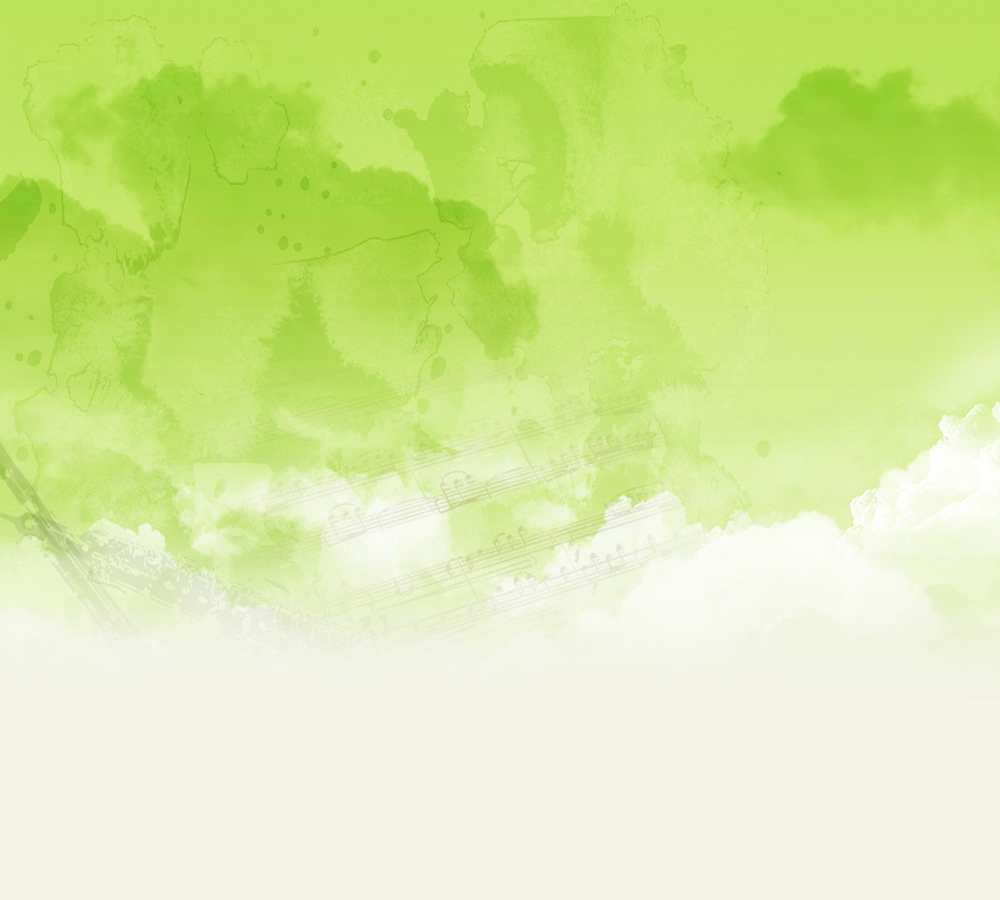
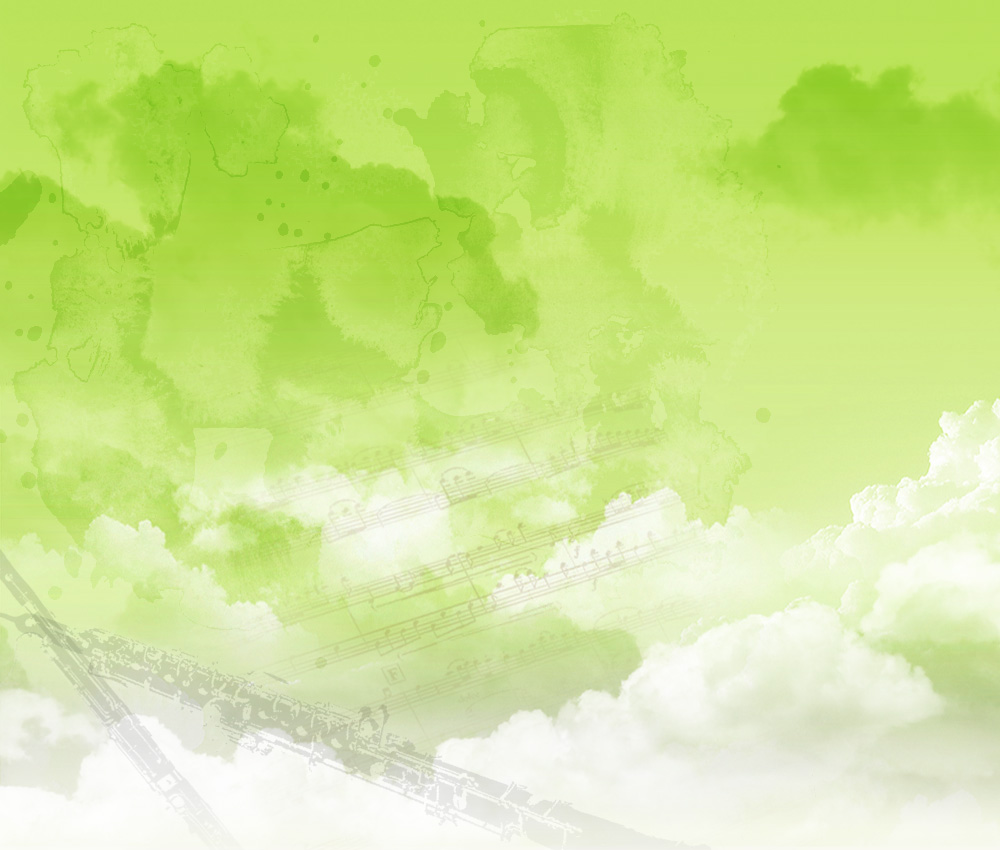
change bg_index's height
change height to 850

diff --git a/stylesheets/main.css b/stylesheets/main.css
@@ -329,7 +329,7 @@ footer {
 
 .con-index {
   width: 1000px;
-  height: 700px;
+  height: 850px;
   background: url(../images/bg_index.jpg);
 }
 
@@ -359,7 +359,7 @@ footer {
 
 .pic-index01 {
   float: left;
-  margin: 155px 0 0 -15px;
+  margin: 170px 0 0 -15px;
   width: 254px;
   height: 314px;
   background: url(../images/pic_index01.png);
@@ -367,7 +367,7 @@ footer {
 
 .pic-index02 {
   float: left;
-  margin: 360px 0 0 -130px;
+  margin: 390px 0 0 -130px;
   width: 256px;
   height: 230px;
   background: url(../images/pic_index02.png);
@@ -375,7 +375,7 @@ footer {
 
 .pic-index03 {
   float: left;
-  margin: 240px 0 0 -150px;
+  margin: 260px 0 0 -150px;
   width: 277px;
   height: 259px;
   background: url(../images/pic_index03.png);
@@ -383,7 +383,7 @@ footer {
 
 .pic-index04 {
   float: left;
-  margin: 320px 0 0 140px;
+  margin: 360px 0 0 120px;
   width: 227px;
   height: 253px;
   background: url(../images/pic_index04.png);
@@ -391,7 +391,7 @@ footer {
 
 .pic-index05 {
   float: left;
-  margin: -380px 0 0 440px;
+  margin: -360px 0 0 440px;
   width: 191px;
   height: 260px;
   background: url(../images/pic_index05.png);
@@ -439,7 +439,7 @@ footer {
 
 .text-area-index {
   float: left;
-  margin: -370px 0 0 100px;
+  margin: -410px 0 0 100px;
   width: 240px;
 }
 .btn-scroll {
